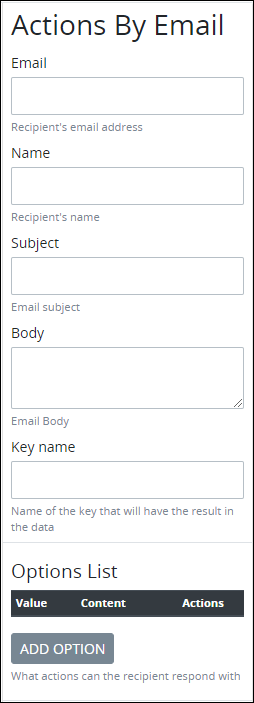
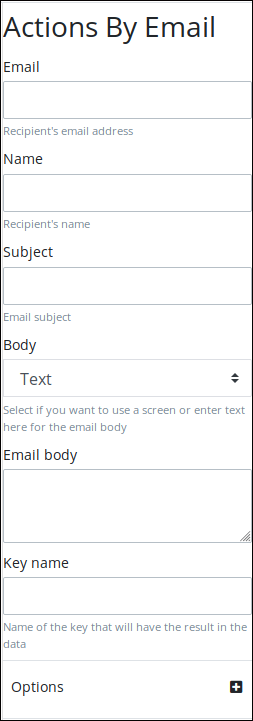
GitBook: [processmaker] 38 pages and 7 assets modified

Changed region(s): [[0.0, 0.0, 0.996, 1.0]]

diff --git a/designing-processes/process-design/model-processes-using-connectors/available-connectors-from-processmaker/actions-by-email-connector.md b/designing-processes/process-design/model-processes-using-connectors/available-connectors-from-processmaker/actions-by-email-connector.md
@@ -76,8 +76,11 @@ Follow these steps to add an Actions By Email control to the Process model:
 
 1. [View your Processes](../../../viewing-processes/view-the-list-of-processes/view-your-processes.md#view-all-active-processes). The **Processes** page displays.
 2. [Create a new Process](../../../viewing-processes/view-the-list-of-processes/create-a-process.md) or click the **Open Modeler** icon![](../../../../.gitbook/assets/open-modeler-edit-icon-processes-page-processes.png)to edit the selected Process model. Process Modeler displays.
-3. Locate the **Actions By Email** control in the **Controls** palette that is to the left of the Process Modeler canvas. If the **Hide Menus** button![](../../../../.gitbook/assets/hide-menus-button-process-modeler-processes.png)is enabled, the **Controls** palette displays the **Actions By Email** control's icon![](../../../../.gitbook/assets/actions-by-email-icon-process-modeler-processes.png). ![](../../../../.gitbook/assets/actions-by-email-control-bpmn-process-modeler-package-processes.png) 
-4. Drag the control into the Process model canvas where you want to place it. If a Pool element is in your Process model, the Actions By Email control cannot be placed outside of the Pool element.
+3. Locate the **Actions By Email** control in the **Controls** palette that is to the left of the Process Modeler canvas. The **Controls** palette displays the **Actions By Email** control's icon![](../../../../.gitbook/assets/actions-by-email-icon-process-modeler-processes.png).
+
+   ![](../../../../.gitbook/assets/actions-by-email-control-bpmn-process-modeler-package-processes.png) 
+
+4. Drag the control into the Process model canvas where you want to place it. If a Pool element is in your Process model, the Actions By Email control do not allow be placed outside of the Pool element.
 
 ![Actions By Email control](../../../../.gitbook/assets/actions-by-email-control-process-modeler-package-processes.png)
 
@@ -87,7 +90,7 @@ After the Actions By Email control is placed into the Process model, you may mov
 Moving an Actions By Email control has the following limitations in regards to the following Process model elements:
 
 * **Pool element:** If the Actions By Email control is inside of a [Pool](../../model-your-process/process-modeling-element-descriptions.md#pool) element, it cannot be moved outside of the Pool element. If you attempt to do so, Process Modeler places the Actions By Email control inside the Pool element closest to where you attempted to move it.
-* **Lane element:** If the Actions By Email control is inside of a Lane element, it can be moved to another Lane element in the same Pool element. However, the Actions By Email control cannot be moved outside of the Pool element.
+* **Lane element:** If the Actions By Email control is inside of a Lane element, it can be moved to another Lane element in the same Pool element. However, the Process Modeler do not allow the Actions By Email control move outside of the Pool element.
 {% endhint %}
 
 ## Settings
@@ -111,37 +114,73 @@ Follow these steps to configure an Actions By Email control:
 
 1. Ensure that the **Hide Menus** button![](../../../../.gitbook/assets/hide-menus-button-process-modeler-processes.png)is not enabled. See [Maximize the Process Modeler Canvas View](../../navigate-around-your-process-model.md#maximize-the-process-modeler-canvas-view).
 2. Select the Actions By Email control from the Process model in which to configure its settings. The **Actions By Email** configuration settings display.  ![](../../../../.gitbook/assets/actions-by-email-configuration-process-modeler-package-processes.png) 
-3. In the **Email** setting, enter the email address to which the Actions By Email control sends an email when this Actions By Email control triggers. You may use the value from a [ProcessMaker Screen](../../../design-forms/what-is-a-form.md)'s **Variable Name** setting as a variable in this field. For example, if your Process model references a ProcessMaker Screen that contains a [Lines Inputs control](../../../design-forms/screens-builder/control-descriptions/line-input-control-settings.md) with the **Variable Name** setting value of `EmailAddress` that the Request participant enters an email address, use [mustache syntax](https://mustache.github.io/mustache.5.html) `{{EmailAddress}}` to use that Line Inputs control's value in the **Email** field. Email addresses may be referenced from Request data or entered into the **Email** setting by using commas \(`,`\) between email addresses. You may also use [mustache syntax](https://mustache.github.io/mustache.5.html) to reference [Magic Variables](../../../reference-global-variables-in-your-processmaker-assets.md).
-4. In the **Name** setting, enter the name of the email recipient. You may use the value from a ProcessMaker Screen's **Variable Name** setting as a variable in this field. For example, if your Process model references a ProcessMaker Screen that contains a Lines Inputs control with the **Variable Name** setting value of `FullName` that the Request participant enters an name, use [mustache syntax](https://mustache.github.io/mustache.5.html) `{{FullName}}` to use that Line Inputs control's value in the **Name** field. Email recipients may be referenced from Request data or entered into the **Name** setting by using commas \(`,`\) between email addresses. If entering multiple email recipients, ensure to list them in the corresponding order as you have listed them in the **Email** setting, so that each email recipient views her or his name in the received email.
+3. In the **Email** setting, enter the email address to which the Actions By Email control sends an email when this Actions By Email control triggers. You may use the value from a [ProcessMaker Screen](../../../design-forms/what-is-a-form.md)'s **Variable Name** setting as a variable in this field. For example, if your Process model references a ProcessMaker Screen that contains a [Lines Inputs control](../../../design-forms/screens-builder/control-descriptions/line-input-control-settings.md) with the **Variable Name** setting value of `EmailAddress` that the Request participant enters an email address, use mustache syntax `{{EmailAddress}}` to use that Line Inputs control's value in the **Email** field. Email addresses may be referenced from Request data or entered into the **Email** setting by using commas \(`,`\) between email addresses. You may also use mustache syntax to reference [Magic Variables](../../../reference-global-variables-in-your-processmaker-assets.md).
+4. In the **Name** setting, enter the name of the email recipient. You may use the value from a ProcessMaker Screen's **Variable Name** setting as a variable in this field. For example, if your Process model references a ProcessMaker Screen that contains a Lines Inputs control with the **Variable Name** setting value of `FullName` that the Request participant enters an name, use mustache syntax `{{FullName}}` to use that Line Inputs control's value in the **Name** field. Email recipients may be referenced from Request data or entered into the **Name** setting by using commas \(`,`\) between email addresses. If entering multiple email recipients, ensure to list them in the corresponding order as you have listed them in the **Email** setting, so that each email recipient views her or his name in the received email.
 5. In the **Subject** setting, enter the subject of the email the Actions By Email control sends. For example, enter the decision that the email recipient must make in this email.
-6. In the **Body** setting, enter the body of the email the Actions By Email control sends. For example, enter the instructions regarding the decision that the email recipient must make in using the buttons in the email.
-7. In the **Email body** setting, enter the body text of the email. You may include [mustache syntax](https://mustache.github.io/mustache.5.html) within the **Email body** setting to reference Request data or Magic Variables.
-8. In the **Key name** setting, enter the name of the key that stores the Actions By Email control response within the JSON data model of the Request.
-9. In the **Options** setting, enter the list of options available to the email recipient when making the decision. The options configured here display below the body of the email. Add options in the order they are to display from top to bottom in the email.  
+6. From the **Body** setting, select one of the following options: **Text** or **Screen**.
+   * **Text:** From the **Body** drop-down menu, select the **Text** option to enter the email body text. The **Email body** setting displays. In the **Email body** setting, enter the email body text.
+   * **Screen:** From the **Body** drop-down menu, select the **Screen** option to use a ProcessMaker Screen to display the email body. The **Email body** setting displays. From the **Email body** drop-down menu, select the [Display](../../../design-forms/screens-builder/types-for-screens.md#display)-type ProcessMaker Screen to display the email body.
+7. In the **Key name** setting, enter the name of the key that stores the Actions By Email control response within the JSON data model of the Request.
+8. In the **Options** setting, enter the list of options available to the email recipient when making the decision. The options configured here display below the body of the email. Add options in the order they are to display from top to bottom in the email.  
    ![](../../../../.gitbook/assets/actions-by-email-options-list-configuration-process-modeler-package-processes.png) 
 
-   Each option has the following settings:
+   Follow these steps to add an option:
 
-   * **Value:** **Value** is the internal data name for the option that only the Process Owner views at design time.
-   * **Content:** **Content** is the button label displayed to the email. 
-   * **Actions:** Click the **Remove**![](../../../../.gitbook/assets/options-list-delete-option-icon-screens-builder-processes.png)icon to remove the option.
+   1. Click the plus button![](../../../../.gitbook/assets/actions-by-email-options-list-plus-button-process-modeler-package-processes.png)from the same line where is the **Options** label. The **Add Option** screen displays.  ![](../../../../.gitbook/assets/add-new-option-screen-actions-by-email-coniguration-process-modeler-package-processes.png) 
+   2. In the **Button Text** field, enter the button label displayed to the email.
+   3. In the **Value** field, enter the internal data name for the option that only the Process Owner views at design time.
+   4. In the **Button Style** field, select a button style:
+      * **Primary:** Displays a button with a blue-colored background and white-colored text.
+      * **Secondary:** Displays a button with a gray-colored background and white-colored text.
+      * **Success:** Displays a button with a green-colored background and white-colored text.
+      * **Info:** Displays a button with a teal-colored background and white-colored text.
+      * **Warning:** Displays a button with a yellow-colored background and black-colored text.
+      * **Danger:** Displays a button with a red-colored background with white-colored text.
+      * **Dark:** Displays a button with a black-colored background with white-colored text.
+      * **Light:** Displays a button with a white-colored background with black-colored text.
+   5. Click **Add**.
 
-   Follow these steps to add an option: 
+   Each option is added to the **Options** setting list that have the following:
 
-   1. Click **Add Option** from below the **Options List** setting. The **Add New Option** screen displays.  ![](../../../../.gitbook/assets/add-new-option-screen-actions-by-email-coniguration-process-modeler-package-processes.png) 
-   2. In the **Option Value** field, enter the **Value** option value \(as described above\).
-   3. In the **Option Label** field, enter the **Content** option value \(as described above\).
-   4. Click **OK**.
+   * **Button text:** The button label displayed to the email. 
+   * **Edit:** Click the edit icon![](../../../../.gitbook/assets/actions-by-email-options-list-edit-button-process-modeler-package-processes.png)to edit the option.
+   * **Trash:** Click the trash icon![](../../../../.gitbook/assets/actions-by-email-options-list-trash-button-process-modeler-package-processes.png)to remove the option.
 
-10. Ensure that the **Hide Menus** button![](../../../../.gitbook/assets/hide-menus-button-process-modeler-processes.png)is not enabled. See [Maximize the Process Modeler Canvas View](../../navigate-around-your-process-model.md#maximize-the-process-modeler-canvas-view).
-11. Select the Actions By Email control from the Process model in which to configure its settings. The **Actions By Email** configuration settings display.  ![](../../../../.gitbook/assets/actions-by-email-configuration-process-modeler-package-processes.png) 
-12. In the **Email** setting, enter the email address to which the Actions By Email control sends an email when this Actions By Email control triggers. You may use the value from a [ProcessMaker Screen](../../../design-forms/what-is-a-form.md)'s **Variable Name** setting as a variable in this field. For example, if your Process model references a ProcessMaker Screen that contains a [Lines Inputs control](../../../design-forms/screens-builder/control-descriptions/line-input-control-settings.md) with the **Variable Name** setting value of `EmailAddress` that the Request participant enters an email address, use [mustache syntax](https://mustache.github.io/mustache.5.html) `{{EmailAddress}}` to use that Line Inputs control's value in the **Email** field. Email addresses may be referenced from Request data or entered into the **Email** setting by using commas \(`,`\) between email addresses. You may also use [mustache syntax](https://mustache.github.io/mustache.5.html) to reference [Magic Variables](../../../reference-global-variables-in-your-processmaker-assets.md).
-13. In the **Name** setting, enter the name of the email recipient. You may use the value from a ProcessMaker Screen's **Variable Name** setting as a variable in this field. For example, if your Process model references a ProcessMaker Screen that contains a Lines Inputs control with the **Variable Name** setting value of `FullName` that the Request participant enters an name, use [mustache syntax](https://mustache.github.io/mustache.5.html) `{{FullName}}` to use that Line Inputs control's value in the **Name** field. Email recipients may be referenced from Request data or entered into the **Name** setting by using commas \(`,`\) between email addresses. If entering multiple email recipients, ensure to list them in the corresponding order as you have listed them in the **Email** setting, so that each email recipient views her or his name in the received email.
-14. In the **Subject** setting, enter the subject of the email the Actions By Email control sends. For example, enter the decision that the email recipient must make in this email.
-15. In the **Body** setting, enter the body of the email the Actions By Email control sends. For example, enter the instructions regarding the decision that the email recipient must make in using the buttons in the email.
-16. In the **Email body** setting, enter the body text of the email. You may include [mustache syntax](https://mustache.github.io/mustache.5.html) within the **Email body** setting to reference Request data or Magic Variables.
-17. In the **Key name** setting, enter the name of the key that stores the Actions By Email control response within the JSON data model of the Request.
-18. In the **Options** setting, enter the list of options available to the email recipient when making the decision. The options configured here display below the body of the email. Add options in the order they are to display from top to bottom in the email.  
+   ![](../../../../.gitbook/assets/actions-by-email-options-list-process-modeler-package-processes.png) 
+
+9. Ensure that the **Hide Menus** button![](../../../../.gitbook/assets/hide-menus-button-process-modeler-processes.png)is not enabled. See [Maximize the Process Modeler Canvas View](../../navigate-around-your-process-model.md#maximize-the-process-modeler-canvas-view).
+10. Select the Actions By Email control from the Process model in which to configure its settings. The **Actions By Email** configuration settings display.  ![](../../../../.gitbook/assets/actions-by-email-configuration-process-modeler-package-processes.png) 
+11. In the **Email** setting, enter the email address to which the Actions By Email control sends an email when this Actions By Email control triggers. You may use the value from a [ProcessMaker Screen](../../../design-forms/what-is-a-form.md)'s **Variable Name** setting as a variable in this field. For example, if your Process model references a ProcessMaker Screen that contains a [Lines Inputs control](../../../design-forms/screens-builder/control-descriptions/line-input-control-settings.md) with the **Variable Name** setting value of `EmailAddress` that the Request participant enters an email address, use mustache syntax `{{EmailAddress}}` to use that Line Inputs control's value in the **Email** field. Email addresses may be referenced from Request data or entered into the **Email** setting by using commas \(`,`\) between email addresses. You may also use mustache syntax to reference [Magic Variables](../../../reference-global-variables-in-your-processmaker-assets.md).
+12. In the **Name** setting, enter the name of the email recipient. You may use the value from a ProcessMaker Screen's **Variable Name** setting as a variable in this field. For example, if your Process model references a ProcessMaker Screen that contains a Lines Inputs control with the **Variable Name** setting value of `FullName` that the Request participant enters an name, use mustache syntax `{{FullName}}` to use that Line Inputs control's value in the **Name** field. Email recipients may be referenced from Request data or entered into the **Name** setting by using commas \(`,`\) between email addresses. If entering multiple email recipients, ensure to list them in the corresponding order as you have listed them in the **Email** setting, so that each email recipient views her or his name in the received email.
+13. In the **Subject** setting, enter the subject of the email the Actions By Email control sends. For example, enter the decision that the email recipient must make in this email.
+14. In the **Body** setting, enter the body of the email the Actions By Email control sends. For example, enter the instructions regarding the decision that the email recipient must make in using the buttons in the email.
+15. In the **Email body** setting, enter the body text of the email. You may include mustache syntax within the **Email body** setting to reference Request data or Magic Variables.
+16. In the **Key name** setting, enter the name of the key that stores the Actions By Email control response within the JSON data model of the Request.
+17. In the **Options** setting, enter the list of options available to the email recipient when making the decision. The options configured here display below the body of the email. Add options in the order they are to display from top to bottom in the email.  
+    ![](../../../../.gitbook/assets/actions-by-email-options-list-configuration-process-modeler-package-processes.png) 
+
+    Each option has the following settings:
+
+    * **Value:** **Value** is the internal data name for the option that only the Process Owner views at design time.
+    * **Content:** **Content** is the button label displayed to the email. 
+    * **Actions:** Click the **Remove**![](../../../../.gitbook/assets/options-list-delete-option-icon-screens-builder-processes.png)icon to remove the option.
+
+    Follow these steps to add an option: 
+
+    1. Click **Add Option** from below the **Options List** setting. The **Add New Option** screen displays.  ![](../../../../.gitbook/assets/add-new-option-screen-actions-by-email-coniguration-process-modeler-package-processes.png) 
+    2. In the **Option Value** field, enter the **Value** option value \(as described above\).
+    3. In the **Option Label** field, enter the **Content** option value \(as described above\).
+    4. Click **OK**.
+
+18. Ensure that the **Hide Menus** button![](../../../../.gitbook/assets/hide-menus-button-process-modeler-processes.png)is not enabled. See [Maximize the Process Modeler Canvas View](../../navigate-around-your-process-model.md#maximize-the-process-modeler-canvas-view).
+19. Select the Actions By Email control from the Process model in which to configure its settings. The **Actions By Email** configuration settings display.  ![](../../../../.gitbook/assets/actions-by-email-configuration-process-modeler-package-processes.png) 
+20. In the **Email** setting, enter the email address to which the Actions By Email control sends an email when this Actions By Email control triggers. You may use the value from a [ProcessMaker Screen](../../../design-forms/what-is-a-form.md)'s **Variable Name** setting as a variable in this field. For example, if your Process model references a ProcessMaker Screen that contains a [Lines Inputs control](../../../design-forms/screens-builder/control-descriptions/line-input-control-settings.md) with the **Variable Name** setting value of `EmailAddress` that the Request participant enters an email address, use [mustache syntax](https://mustache.github.io/mustache.5.html) `{{EmailAddress}}` to use that Line Inputs control's value in the **Email** field. Email addresses may be referenced from Request data or entered into the **Email** setting by using commas \(`,`\) between email addresses. You may also use [mustache syntax](https://mustache.github.io/mustache.5.html) to reference [Magic Variables](../../../reference-global-variables-in-your-processmaker-assets.md).
+21. In the **Name** setting, enter the name of the email recipient. You may use the value from a ProcessMaker Screen's **Variable Name** setting as a variable in this field. For example, if your Process model references a ProcessMaker Screen that contains a Lines Inputs control with the **Variable Name** setting value of `FullName` that the Request participant enters an name, use [mustache syntax](https://mustache.github.io/mustache.5.html) `{{FullName}}` to use that Line Inputs control's value in the **Name** field. Email recipients may be referenced from Request data or entered into the **Name** setting by using commas \(`,`\) between email addresses. If entering multiple email recipients, ensure to list them in the corresponding order as you have listed them in the **Email** setting, so that each email recipient views her or his name in the received email.
+22. In the **Subject** setting, enter the subject of the email the Actions By Email control sends. For example, enter the decision that the email recipient must make in this email.
+23. In the **Body** setting, enter the body of the email the Actions By Email control sends. For example, enter the instructions regarding the decision that the email recipient must make in using the buttons in the email.
+24. In the **Email body** setting, enter the body text of the email. You may include [mustache syntax](https://mustache.github.io/mustache.5.html) within the **Email body** setting to reference Request data or Magic Variables.
+25. In the **Key name** setting, enter the name of the key that stores the Actions By Email control response within the JSON data model of the Request.
+26. In the **Options** setting, enter the list of options available to the email recipient when making the decision. The options configured here display below the body of the email. Add options in the order they are to display from top to bottom in the email.  
     ![](../../../../.gitbook/assets/actions-by-email-options-list-configuration-process-modeler-package-processes.png) 
 
     Each option has the following settings:

diff --git a/designing-processes/design-forms/screens-builder/manage-watchers/search-for-a-watcher.md b/designing-processes/design-forms/screens-builder/manage-watchers/search-for-a-watcher.md
@@ -4,3 +4,32 @@ description: Filter all Watchers in a ProcessMaker Screen to find that one you n
 
 # Search for a Watcher
 
+## Search for a Watcher in a ProcessMaker Screen
+
+Use the **Search** function to filter all Watchers from the **Watchers** screen. All Watchers in the **Watchers** screen may be used in the ProcessMaker Screen from which the **Watchers** screen displays.
+
+{% hint style="info" %}
+Your ProcessMaker user account or group membership must have the "Screens: View Screens" permission to search for Watchers in a ProcessMaker Screen unless your user account has the **Make this user a Super Admin** setting selected.
+
+See the ProcessMaker [Screens](../../../../processmaker-administration/permission-descriptions-for-users-and-groups.md#screens) permissions or ask your ProcessMaker Administrator for assistance.
+{% endhint %}
+
+Follow these steps to search for a Watcher in a ProcessMaker Screen:
+
+1. [View your ProcessMaker Screens.](../../manage-forms/view-all-forms.md) The **Screens** page displays.
+2. [View the Watchers for a ProcessMaker Screen](view-watchers-for-a-screen.md#view-watchers-for-a-processmaker-screen). The **Watchers** screen displays.
+3. Enter in the **Search** field the text to filter Watchers in that ProcessMaker Screens by using any of the following criteria:
+   * **Name:** Filter by the Watcher name that displays in the **Name** column.
+   * **Watching Variable:** Filter by the control in that ProcessMaker Screen from which the Watcher monitors for a change in its value by searching for that control's **Variable Name** value that displays in the **Watching Variable** column.
+   * **Output Variable:** Filter by the control in that ProcessMaker Screen to which the Watcher outputs its action a control by searching for that control's **Variable Name** value that displays in the **Output Variable** column.
+
+As you enter text into the **Search** field, Watchers display that match your entered text.
+
+{% hint style="info" %}
+If there are no search results, the following message displays: **No Results**.
+{% endhint %}
+
+## Related Topics
+
+
+
